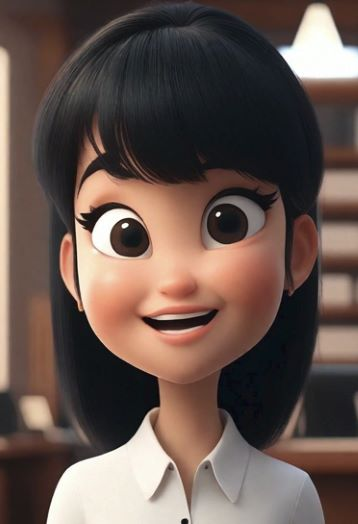
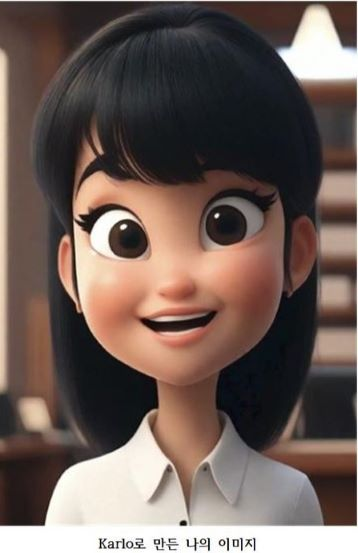
s commit

diff --git a/index.html b/index.html
@@ -184,15 +184,16 @@
           </li>
 
           <li>
-            <h3>학교 폭력 감지<span></span></h3>
+            <h3>학교 폭력 감지(진행 중)<span></span></h3>
             <p>
-              아직도 많이 발생하는 학교 폭력에 대비하여<br>
-              실시간으로 폭력을 감지하여 <br>
-              관리자에게 알림이 가는 시스템
+              학교 내 발생하는 폭력 사건을 
+              실시간으로 감지하여 관리자에게<br>
+              즉시 알리는 시스템을 준비 중
             </p>
             <p>
               기술 스택 : Python, Visual Studio Code, SQLite, YOLOv5, PyTorch<br>
-              참여도 : 100%
+              진행률 : 30%<br>
+              참여 : 1인
             </p>
             <div class="view_img"id="view_img2">메인화면 이미지 미리보기</div>
             <a href="file/plan.pdf" class="viewOpen">계획서</a>
@@ -215,7 +216,7 @@
       <div class="container">
         <ul class="clearfix">
           <li>
-            <h3 class="sr-only">웹디자인</h3>
+            <h3 class="sr-only">서브 프로젝트</h3>
             <ol class="gallery web clearfix">
               <li><a href="images/design1.jpg" class="gallOpen">맞춤형 채용 플랫폼</a></li>
               <li><a href="images/design2.jpg" class="gallOpen">RTSP 영상 송출</a></li>
@@ -245,7 +246,7 @@
           <strong>비전 전문가, 최호진</strong>이 되겠습니다."
         </p>
         <p>
-          연락처 : abcde@gmail.com<br>
+          연락처 : swhgs2@gmail.com<br>
         </p>
   
         <div class="link clearfix">

diff --git a/css/style.css b/css/style.css
@@ -158,7 +158,7 @@ header>.container>nav>.gnb>li:hover>a,header>.container>nav>.gnb>li>a:focus,head
 
 #aboutme>.content1-left>a>p.img {
     width: 358px;
-    height:  500px;
+    height:  553px;
     text-indent: -9999px;
     background-image: url(../images/about_me.jpg);
 }
@@ -832,10 +832,10 @@ header>.container>nav>.gnb>li:hover>a,header>.container>nav>.gnb>li>a:focus,head
     position: absolute;
     right: 50%;
     top: 300px;
-    margin-right: -985px;
-    width: 800px;
+    margin-right: -685px;
+    width: 600px;
     height: 375px;
-    background-image: url(../images/contact_banner.jpg);
+    background-image: url(../images/contact_banner7.jpg);
 }
 
 #contact>.container {
